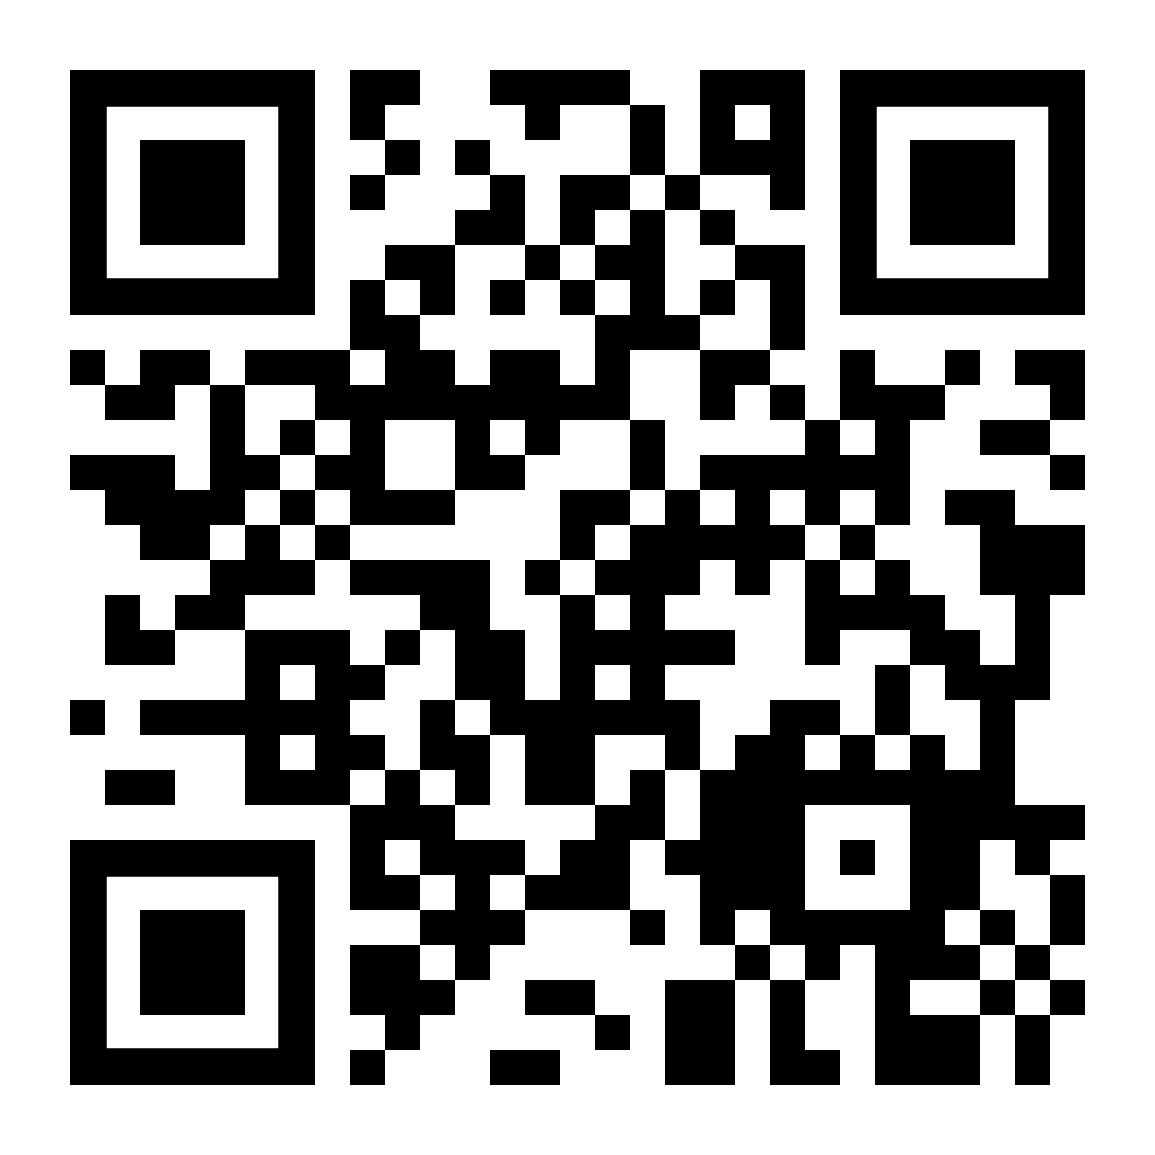
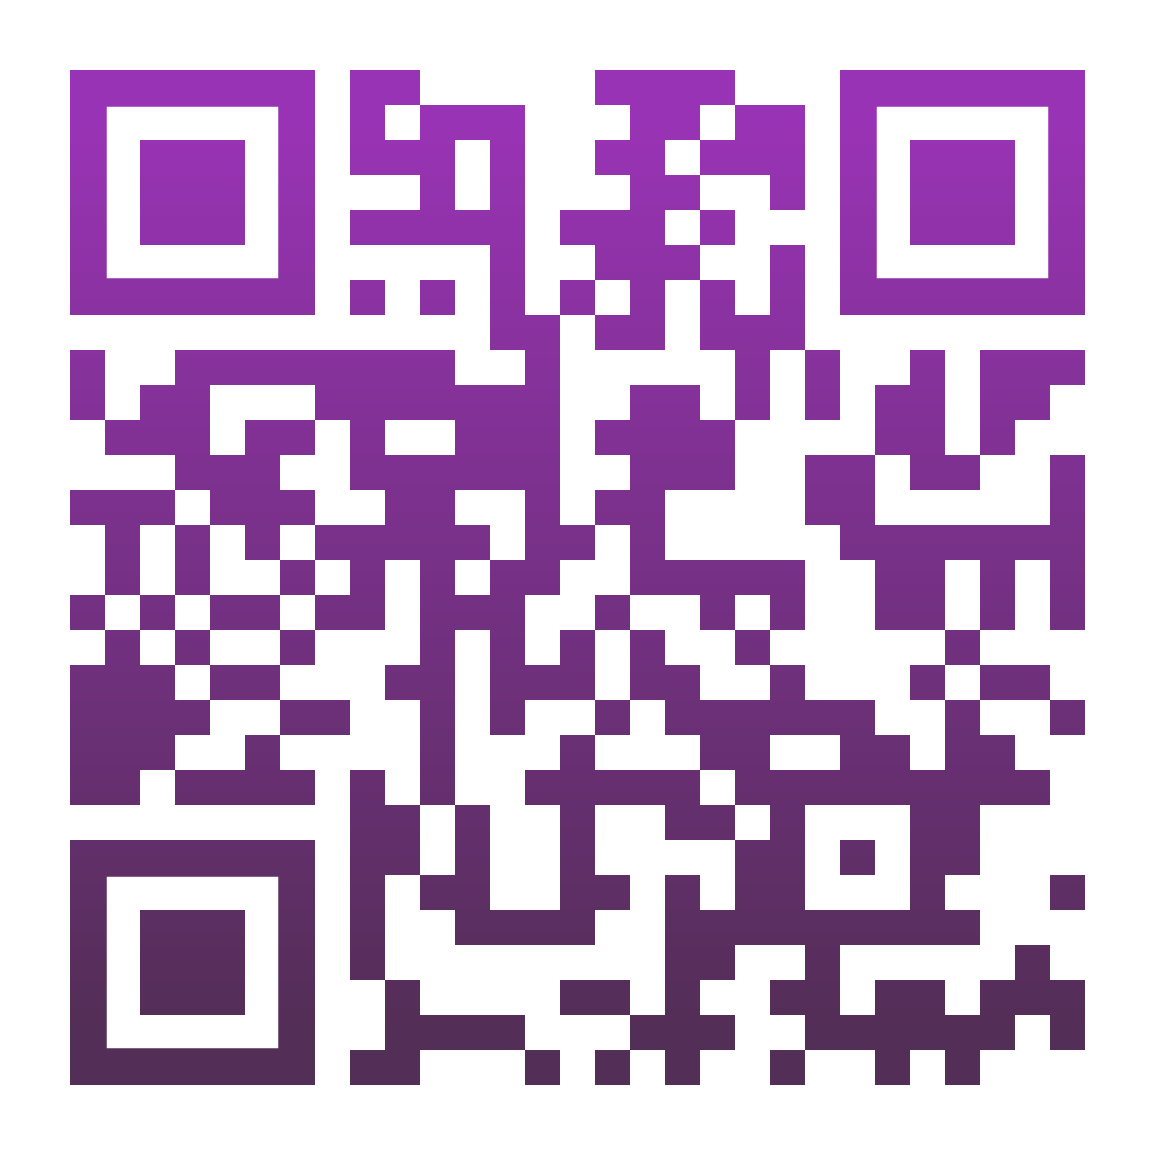
ontology 2 drafted

diff --git a/FS1005_2.html b/FS1005_2.html
@@ -66,7 +66,7 @@
 			<section data-background-color="">
 				<p> To view the <b>video</b> just follow the link:</p>
 		
-				<a href="https://youtu.be/30-ATgxCsFE">👉<i>https://youtu.be/30-ATgxCsFE</i></a>
+				<a href="https://youtu.be/dYyaDflXrpo">👉<i>https://youtu.be/dYyaDflXrpo</i></a>
 		
 				<p>You can also scan the image with your phone ☎:</p>
 
@@ -236,8 +236,8 @@ viewBox="0 0 300 300" width="300px" height="310px">
 				<img title="Food science is a holistic pursuit!!!" class="fragment fade-in" src="img/FS_CAUSES.svg">
 			</section>
 
-			<section data-background-color="#000000">
-				<img title="The 2020 FS1005 class is not reductionist (yet?)" class="shake" src="img/food_experience_cloud.svg" width="50%" height="50%">
+			<section data-background-color="#ffffff">
+				<img title="The 2021 FS1005 class is not reductionist (yet?)" class="shake" src="img/food_experience_cloud2021.png" width="100%" height="100%">
 			</section>
 
 				<!--<section>

diff --git a/index.md b/index.md
@@ -14,7 +14,7 @@ Pre-section: [Knowing Food](http://edibotopic.github.io/lecture-slides/pre_lectu
 
 Lecture#1: [Ontology I](http://edibotopic.github.io/lecture-slides/FS1005_1.html)
 
-<!-- Lecture#2: [Ontology II](http://edibotopic.github.io/lecture-slides/FS1005_2.html) -->
+Lecture#2: [Ontology II](http://edibotopic.github.io/lecture-slides/FS1005_2.html)
 
 <!-- Lecture#3: [Epistemology I](http://edibotopic.github.io/lecture-slides/FS1005_3.html) -->
 
